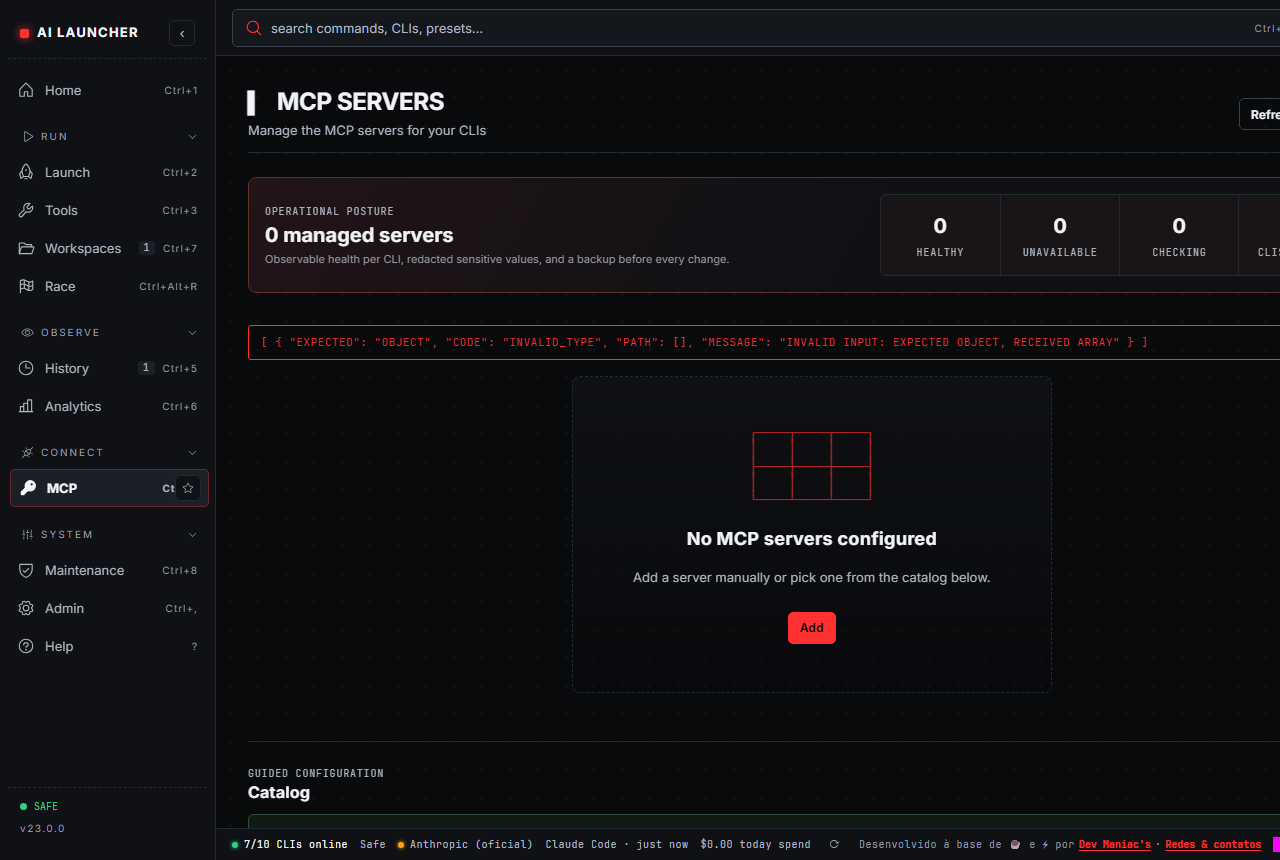
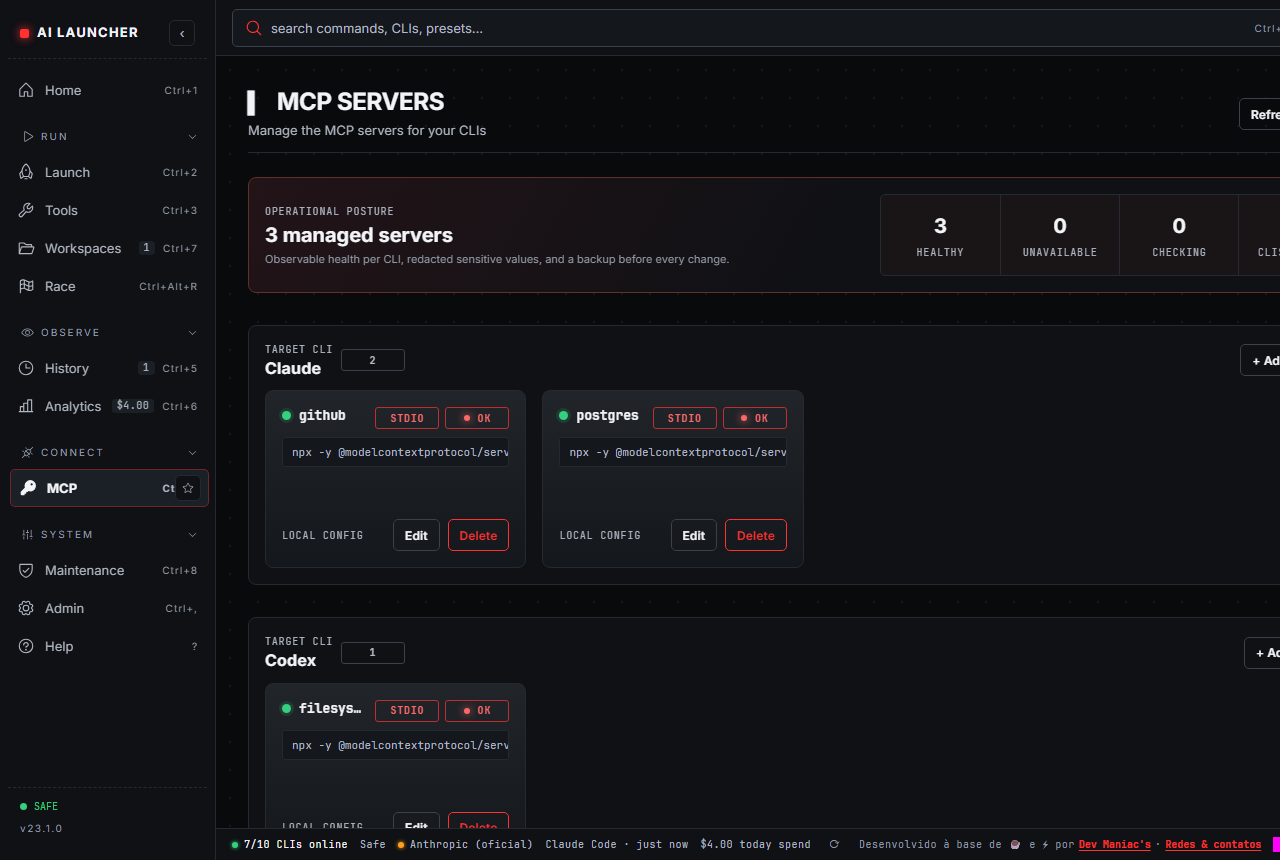
docs: refresh screenshots for v23.1.0
Regenerate all eight README captures on the 23.1.0 build, keeping the
month projection card visible in the analytics screenshot.
Pin capture gates to the active tab panel so the launcher shot cannot
snap the lazy-chunk fallback, and wrap the MCP stub in the v23 object
contract so the hub prints its three stubbed servers.

diff --git a/e2e/capture-v22-screenshots.spec.ts b/e2e/capture-v22-screenshots.spec.ts
@@ -103,11 +103,16 @@ test.describe("v22 public screenshots capture", () => {
             started_at: new Date(Date.now() - 3600000).toISOString(),
           },
         ],
-        list_mcp_servers: [
-          { name: "github", cli: "claude", transport: "stdio", command: "npx", args: ["-y", "@modelcontextprotocol/server-github"] },
-          { name: "postgres", cli: "claude", transport: "stdio", command: "npx", args: ["-y", "@modelcontextprotocol/server-postgres"] },
-          { name: "filesystem", cli: "codex", transport: "stdio", command: "npx", args: ["-y", "@modelcontextprotocol/server-filesystem"] },
-        ],
+        // McpListResult object contract (v23): a bare array fails Zod parsing
+        // and renders the raw validation error banner on the MCP surface.
+        list_mcp_servers: {
+          servers: [
+            { name: "github", cli: "claude", transport: "stdio", command: "npx", args: ["-y", "@modelcontextprotocol/server-github"] },
+            { name: "postgres", cli: "claude", transport: "stdio", command: "npx", args: ["-y", "@modelcontextprotocol/server-postgres"] },
+            { name: "filesystem", cli: "codex", transport: "stdio", command: "npx", args: ["-y", "@modelcontextprotocol/server-filesystem"] },
+          ],
+          warnings: [],
+        },
       },
     });
 
@@ -183,13 +188,30 @@ test.describe("v22 public screenshots capture", () => {
       } else {
         await openSidebarSurface(page, surface.nav);
       }
+      // Anchor the heading gate at the ACTIVE panel: page-level matching can
+      // hit stale DOM before React commits the lazy suspension (the Command
+      // Center h2 "AI Launcher Pro" matches /launch/i), and during the
+      // suspension no active panel exists, so this only passes once the real
+      // surface is mounted — never on the Suspense fallback.
       await expect(
-        page.getByRole("heading", { name: surface.heading }).first()
+        page
+          .locator(".cd-tab-panel--active")
+          .getByRole("heading", { name: surface.heading })
+          .first()
       ).toBeVisible();
 
       // Let async stub-driven content settle after the heading marks the
       // surface as mounted; the heading wait above remains the real gate.
       await page.waitForTimeout(300);
+      // The settle window can land mid lazy-chunk resolution (fallback shows
+      // then resolves), so re-assert the surface is still mounted, not the
+      // "Loading / preparing module…" fallback, before shooting.
+      await expect(
+        page
+          .locator(".cd-tab-panel--active")
+          .getByRole("heading", { name: surface.heading })
+          .first()
+      ).toBeVisible();
       await page.evaluate(() => {
         window.scrollTo(0, 0);
         document.documentElement.scrollTop = 0;

diff --git a/e2e/tauriStub.ts b/e2e/tauriStub.ts
@@ -7,7 +7,8 @@ type TauriResultMap = {
   check_tools: unknown[];
   check_environment: unknown[];
   list_active_sessions: unknown[];
-  list_mcp_servers: unknown[];
+  /** `McpListResult` ({ servers, warnings }) since the v23 object contract. */
+  list_mcp_servers: unknown;
   mcp_health_check: { ok: boolean; detail: string };
   read_project_profile: null;
   scan_project_stack: { files: string[]; manifests: Record<string, string> };
